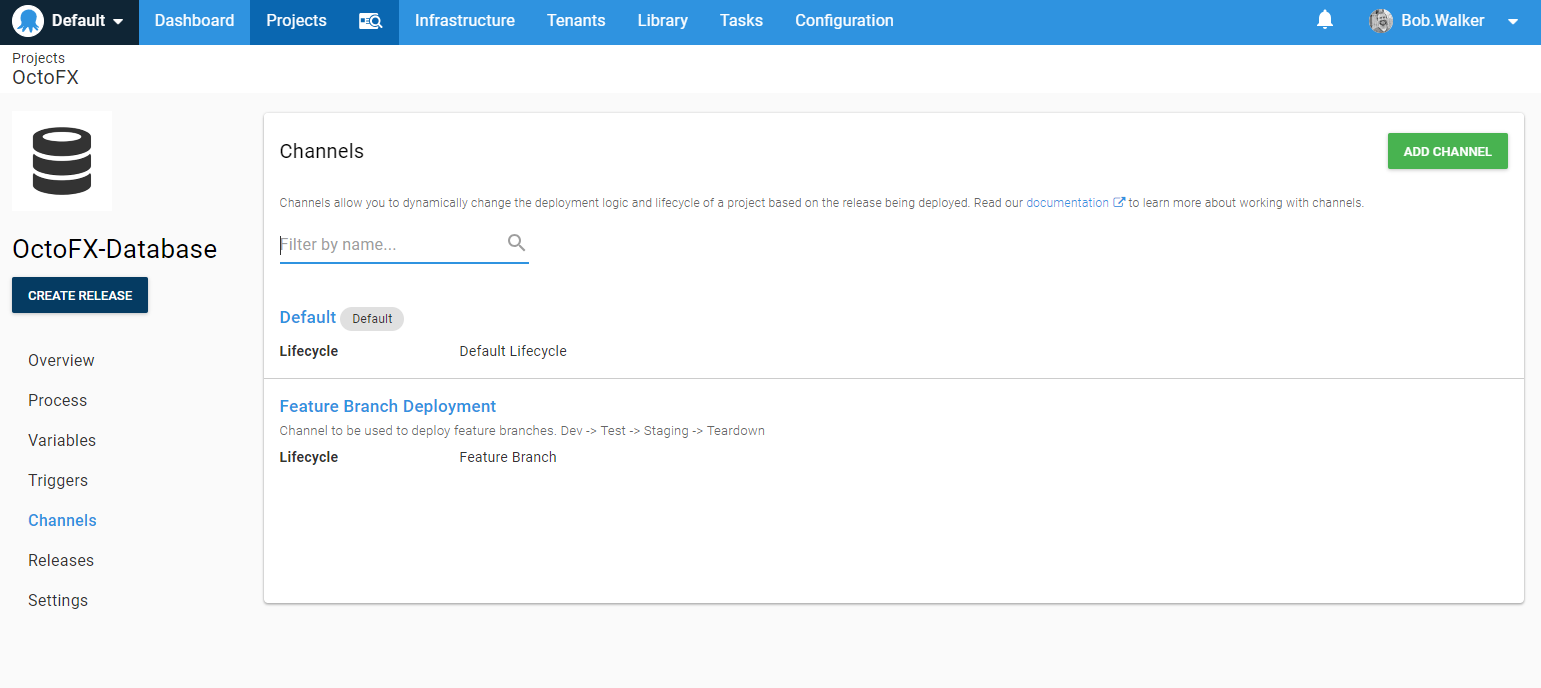
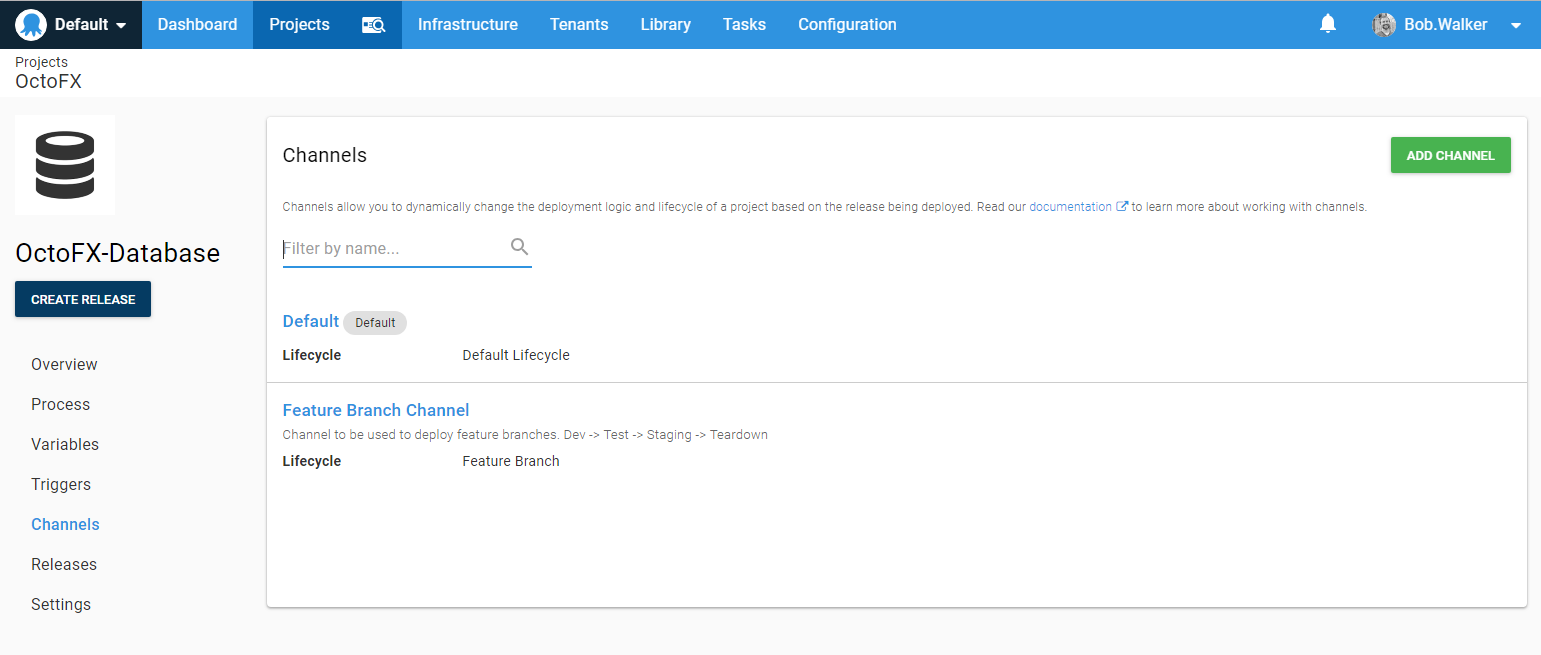
Reworking the build server integration pieces a bit

diff --git a/manuscript/PackagingApplications.md b/manuscript/PackagingApplications.md
@@ -1,14 +1,12 @@
 # Packaging Applications on the build server
 
-In order deploy the code we will first need to package it.  Octopus Deploy supports a wide variety of package formats, including but not limited to NuGet packages, Tar packages, as well as Docker Images, Jar files and Zip files.  Choose the package type which matches your application type, use NuGet or Zip for .NET applications, JAR for Java, Docker images for Docker, etc.
+Octopus Deploy will deploy a wide variety of package formats to deployment targets.  This list includes, but not limited to NuGet packages, Tar packages, as well as Docker Images, Jar files and Zip files.  
 
-The build server, Jenkins, TeamCity, TFS/Azure DevOps, Bamboo, AppVeyor, etc, is the one typically responsible for packaging applications and pushing that package to Octopus Deploy.  It is possible to package a folder without using a build server, but for the purposes of this book, we are assuming the build server is the one who is packaging the applications.
+The build server, Jenkins, TeamCity, TFS/Azure DevOps, Bamboo, AppVeyor, etc, is most often responsible for packaging applications and pushing that package to Octopus Deploy.  It is possible to package a folder without using a build server, but for the purposes of this book, we are assuming the build server is the one who is packaging the applications.
 
-The primary reason the build server is responsible for packaging the application is because the build server monitors your source control for any changes.  Once a change is detected the build server goes into action.  
+The build server is responsible for packaging the application is because the build server monitors your source control for any changes.  It builds and tests code once a change is detected.  Once the build server is done it hands the package off to Octopus Deploy to handle the deployments.
 
-Octopus Deploy is build server agnostic.  It does not care where it gets the packages from.  All it cares about is that it gets a package to deploy.  In fact, we have written plug-ins for many of the popular build servers.  For the build servers where we don't have a plug-in we have created a command line application called `octo.exe`.  The plug-ins are wrappers for that command line application, so you will get the same functionality as the plug-ins.  
-
-We don't think it is practical to have screenshots for every build server we integrate with.  New build servers and tools are being added all the time.  Rather than that we have a series of recommendations for build server integration.
+Octopus Deploy is build server agnostic.  It does not care where it gets the packages from.  All it cares about is that it gets a package to deploy.  We have written a number of plug-ins to support the more popular build servers.  For the build servers where we don't have a plug-in we have created a command line application called `octo.exe`.  The plug-ins are wrappers for that command line application, so you will get the same functionality as the plug-ins.  
 
 ## Build Server Process
 
@@ -23,26 +21,38 @@ Our recommended build server process is:
 7) Create and deploy release in Octopus Deploy
 8) Run integration tests
 
-If any of the preceding steps fail then the build server will fail the build.  This ensures, at a bare minimum, that when Octopus Deploy gets any changes we know the code successfully passed analysis and unit tests.  
+If any of the preceding steps fail then the build server will fail the build.  This ensures, at a bare minimum, that when Octopus Deploy gets a package to deploy we know the code successfully passed analysis and unit tests.  
 
-Also, do not start packaging and pushing the packages until all tests have completed and passed.  This way the build server doesn't waste time packaging something that fails on a test step.  
+The order of the deployment process above was chosen very deliberately.  The goal of that order is to fail fast.  If the code cannot be built there is no reason to run static analysis.  If the static analysis fails there is no need to run unit tests.  This way the build server doesn't waste compute resources on a build.
 
 > ![](images/professoroctopus.png) Analysis and tests get exponentially more expensive as you move farther away from the build server.  In terms of time, fixing a problem because of analysis failure is much less expensive than fixing a problem in production.  Unit tests should be self-contained, repeatable and fast.  While integration tests are more "soup to nuts" tests which require external components such as a database or file system.  They tend to be much slower and more expensive to maintain. We've seen some projects with 10,000+ unit tests and a couple of hundred integration tests.  The unit tests took a few minutes to run while the integration tests took 10+ minutes to run.  If there is a problem in the code it should fail as fast as possible.  
 
 ## One Source Control Repository or Multiple Source Control Repositories?
 
-If you recall, the OctoFX project has two components, a database and a UI.  The question then comes up, should both components be in the same source control repository or should there be multiple source control repositories.  The answer to that depends on the build server chosen.  Several build servers have the ability to only trigger builds if files in a specific directory are changed.  For example, the source control repository has two folders
+If you recall, the OctoFX project has two components, a database and a UI.  Should both components be in the same source control repository or should there be multiple source control repositories.  The answer to that depends on the build server chosen.  Several build servers have the ability to only trigger builds if files in a specific directory are changed.  For example, OctoFx stores the database and WebUI in two folders.
 
-- src
-- db
+- source/OctoFX.Database
+- source/OctoFX.TradingWebsite
 
-The src folder contains all the C# code, while the db contain all the database scripts.  You can configure your build server to have two builds, one to watch for changes to the db folder and another to watch for changes to the src folder.  
+It is possible to configure a build server to have two builds, one to watch for changes to the db folder and another to watch for changes to the src folder.  This is done by configuring triggers.  In TeamCity that is done on the trigger page.
 
-This gets a little trickier if you both the C# code and the database scripts are in the same solution.  In that case you would want to build a specific project rather than building the entire solution.
+![](images/packagingapplications-teamcitytriggers.png)
+
+In TFS/VSTS/Azure DevOps the trigger is located on the same page where you configure which branch to watch.
+
+![](images/packagingapplications-adotriggers.png)
+
+Both of these projects are in the same solution.  The build step for each project only builds that project.
+
+![](images/packagingapplications-buildspecificproject.png)
+
+It does seem a bit extreme to separate out the components into two builds.  But consider this.  How often do you make a change to just the website?  What if you just make a change to the database, say add a new index?  Should you have to wait for the entire application, both the front-end and database, to be built and tested because of a small index change? 
+
+> ![](images/professoroctopus.png) A good rule of thumb is a build shouldn't take any longer than it takes to get a cup of coffee from the break room.
 
 ## Building and Packaging using Versioning Schemes
 
-The Major, Minor and Patch, of the version should be stored somewhere in the source control repository or in a variable on the build server.  This provides a source of truth for the version numbers.
+The Major, Minor and Patch, of the version should be stored somewhere in the source control repository or in a variable on the build server.  This provides a source of truth for the version numbers.  
 
 > ![](images/professoroctopus.png) When compiling or building the code those values should be used to version the .dlls or .jar files or any other compiled item.  This will allow you to easily see what version is on a specific server.  
 
@@ -52,9 +62,9 @@ For packaging the application to ship to Octopus Deploy you should also include 
 
 ## Releases
 
-We recommend having the build server create and deploy a release to a lower environment such as dev.  Having your build server handle release creation provides you with greater control over the release.  For example, you can select the channel to use or which tenant to deploy to.  In addition, every one of our build plug-ins as well as `octo.exe` have the ability to wait for a deployment to complete.  We recommend configuring your build server to also wait for the deployment to complete. 
+We recommend having the build server create and deploy a release to a Development environment.  This allows you to control when code is deployed.  Maybe your project needs to push two packages.  Waiting until after both packages are pushed to create the release ensures Octopus will deploy those two packages at the same time.  
 
-> ![](images/professoroctopus.png)  Having the build server keep track of your deployment opens up other options.  You can fail a build if it cannot be successfully deployed to development and let the appropriate people know of an issue quickly.  You can also configure integration tests to run after the deployment is complete.
+All of our plug-ins allow you to wait for the deployment to Development to complete.  It is recommended you enable that feature.  This way the build will fail if the deployment to development fails.  You can also run integration tests once the deployment is complete.
 
 It is possible to configure the Octopus Deploy server to automatically create a release when a package is pushed, however it only works if a very specific set of conditions are met, such as only using the internal NuGet feed, not using variables for package ids, and so on.  As your Octopus Deploy instance is used by more and more people within your company you will often find those conditions very constricting.  Automatic release creation using Octopus Deploy should be treated as an exception rather than a rule.
 

diff --git a/manuscript/FeatureBranchDeployments.md b/manuscript/FeatureBranchDeployments.md
@@ -14,25 +14,23 @@ We just need to make a few other tweaks to Octopus Deploy to help support this s
 
 ## Lifecycle
 
-The first question you need to answer is, what environments will the feature branch be deployed to?  With our four environments on our instance, Dev, Testing, Staging and Production, we would say Dev, Testing, and Staging.  We included staging because we often see staging is a mirror of production.  Meaning the outside world has access to it.  Maybe it is used for UAT for business owners, or as a place to get feedback from external customers.  If that is the case, you should be able to deploy to that environment with your feature branch.  There might be a case where you want to get feedback from external customers before merging the feature into the master branch.
+First we need to determine which environments we are going to be deploying to.  In our test instance we have four deployment environments, Development, Testing, Staging, and Production.  Our recommendation is to to be able to deploy to an environment where users can test out the changes.  If you are working on a SaaS application, maybe staging is a mirror of Production.  The outside world has access to connect to it.  Getting feedback from our external users means deploying all the way to Staging.  With no external users then deploying to Development and Testing makes the most sense.
 
-The resources being created for the feature branch, the database and the website, have a finite lifespan.  We will need to destroy them once the feature branch has been merged into master.  As a result of that, we should include a "TearDown" environment in our lifecycle.
+Another item to consider, the resources being created for the feature branch, the database and the website, have a finite lifespan.  We will need to destroy them once the feature branch has been merged into master.  As a result of that, we should include a "TearDown" environment in our lifecycle.
 
-Finally, we don't know how far we are going to push this feature branch.  We might only push it to dev to get some quick feedback.  Or we might push it all the way to staging.  As such, each phase in the lifecycle, Dev, Testing, and Staging should be optional.  
+Each feature branch will be different.  Some will go to development only.  Others will go to Testing.  And others might go all the way to Staging.  We still need to deploy to TearDown to destroy the temporary website and database.  Each phase in the lifecycle, Development, Testing, and Staging should be optional.  
 
 We will create a new lifecycle to support this scenario.  
 
 ![](images/featurebranches-lifecycle.png)
 
-## Channels
+## Channels and Versioning
 
 Channels allow you to make use of a lifecycle different than the project's default lifecycle.  We will be need to create a new channel to make use of this new lifecycle.
 
 ![](images/featurebranches-newchannel.png)
 
-### Versioning
-
-Octopus Deploy adopts a modified version of SemVer.  We are not as strict as SemVer, but we implement a number of it's requirements.  This includes support for pre-release text after the version number (IE 2018.1.9 or 1.0.0.0).  We will be making use of that pre-release text.  This will be for both the package version as well as the release number.  
+Octopus Deploy adopts a modified version of SemVer.  We are not as strict as SemVer. We do implement a number of it's requirements.  This includes support for pre-release text after the version number (IE 2018.1.9 or 1.0.0.0).  We will be making use of that pre-release text.  This will be for both the package version as well as the release number.  
 
 We will create a version rule for this channel where it only accepts packages with pre-release text.
 
@@ -115,7 +113,7 @@ In this particular example, we created a new variable to store the database name
 
 ![](images/featurebranches-changeddatabasestep.png)
 
-A good rule of thumb is to use project variables to reference variable set variables.  This way, if you do need to overwrite the variable at a local level, for whatever reason, you can, and you don't have to go through the exercise of updating all your steps.
+> ![](images/professoroctopus.png) A good rule of thumb is to use project variables to reference variable set variables.  This way, if you do need to overwrite the variable at a local level, for whatever reason, you can, and you don't have to go through the exercise of updating all your steps.
 
 For each project you wish to do this for, you will need to repeat the process of adding the new step and making any variable adjustments.
 
@@ -125,13 +123,85 @@ When you create a feature branch release you will need to specify the channel.  
 
 ![](images/featurebranches-createrelease.png)
 
-On the build server you will need to specify the channel through the plug-in.  Most build servers support the ability to pass variables in.  We recommend you writing a script to check the branch you are on.  If you are on the master branch then specify the default channel.  If you are on any other branch then specify the feature branch channel.  
+That applies to the Octopus User Interface only.  The goal here is to automate all of this.  A developer checks in their code to a feature branch.  The build server sees the feature branch and creates a release on the separate channel.  
 
-![](images/featurebranches-buildserverplugin.png)
+First, the build server needs to be configured to monitor any branch, not just master.  For TeamCity that is a setting in the version control settings for the build.
 
-In addition, you will need to update the step which sets the version of the package to use the name of the branch as a pre-release tag.
+![](images/featurebranches-teamcitymonitorbranches.png)
 
-![](images/featurebranches-packageapplication.png)
+For TFS/VSTS/Azure DevOps the syntax looks like:
+
+![](images/featurebranches-adomonitormultiplebranches.png)
+
+Most, if not all, build servers store the name which triggered the build in a variable.  Using that variable we can determine which channel to deploy to.  Here is a simple script which was written for TeamCity.  At the end of the script, the variables env.octopusChannel and env.octopusVersion are set.  Later steps in the process will use that variable.
+
+```
+Param(    
+    [string]$currentBranch,
+    [string]$buildNumber,
+	[string]$defaultMajorVersion,
+	[string]$featureBranchVersion
+)
+
+Write-Host "BuildNumber: $buildNumber"
+Write-Host "DefaultMajorVersion: $defaultMajorVersion"
+Write-Host "FeatureBranchVersion: $featureBranchVersion"
+
+$channelName = "Default"
+$releaseVersion = "$defaultMajorVersion.$buildNumber"
+
+Write-Host "This is the branch that is building: $currentBranch"
+
+if ($currentBranch -ne "refs/heads/master"){
+    Write-Host "Non-master branch detected, using feature branches instead"
+    $channelName = "Feature Branch Channel"
+    $replacementBranchName = $currentBranch.replace("refs/heads/", "").replace(" ", "")
+    $releaseVersion = "$featureBranchVersion.$buildNumber-$replacementBranchName" 
+}
+
+"##teamcity[setParameter name='env.octopusChannel' value='$channelName']"
+"##teamcity[setParameter name='env.octopusVersion' value='$releaseVersion']"
+```
+
+The script for TFS/VSTS/Azure DevOps would be:
+
+```
+Param(    
+    [string]$currentBranch,
+    [string]$buildNumber,
+	[string]$defaultMajorVersion,
+	[string]$featureBranchVersion
+)
+
+Write-Host "BuildNumber: $buildNumber"
+Write-Host "DefaultMajorVersion: $defaultMajorVersion"
+Write-Host "FeatureBranchVersion: $featureBranchVersion"
+
+$channelName = "Default"
+$releaseVersion = "$defaultMajorVersion.$buildNumber"
+
+Write-Host "This is the branch that is building: $currentBranch"
+
+if ($currentBranch -ne "refs/heads/master"){
+    Write-Host "Non-master branch detected, using feature branches instead"
+    $channelName = "Feature Branch Channel"
+    $replacementBranchName = $currentBranch.replace("refs/heads/", "").replace(" ", "")
+    $releaseVersion = "$featureBranchVersion.$buildNumber-$replacementBranchName" 
+}
+
+Write-Host "##vso[task.setvariable variable=octopusChannel;issecret=true]$channelName" 
+Write-Host "##vso[task.setvariable variable=octopusVersion;issecret=true]$releaseVersion" 
+```
+
+For the steps which package the output into packages and push those packages to Octopus Deploy will use the version variable.
+
+![](images/featurebranches-usingteamcityvariables.png)
+
+The step which creates the release will use the channel and version variable.
+
+![](images/featurebranches-usingversionandchannelvariables.png)
+
+Everything else in the process, the build steps, the testing steps, and so on, remain the same.  
 
 ## Deploying Feature Branch Releases
 
